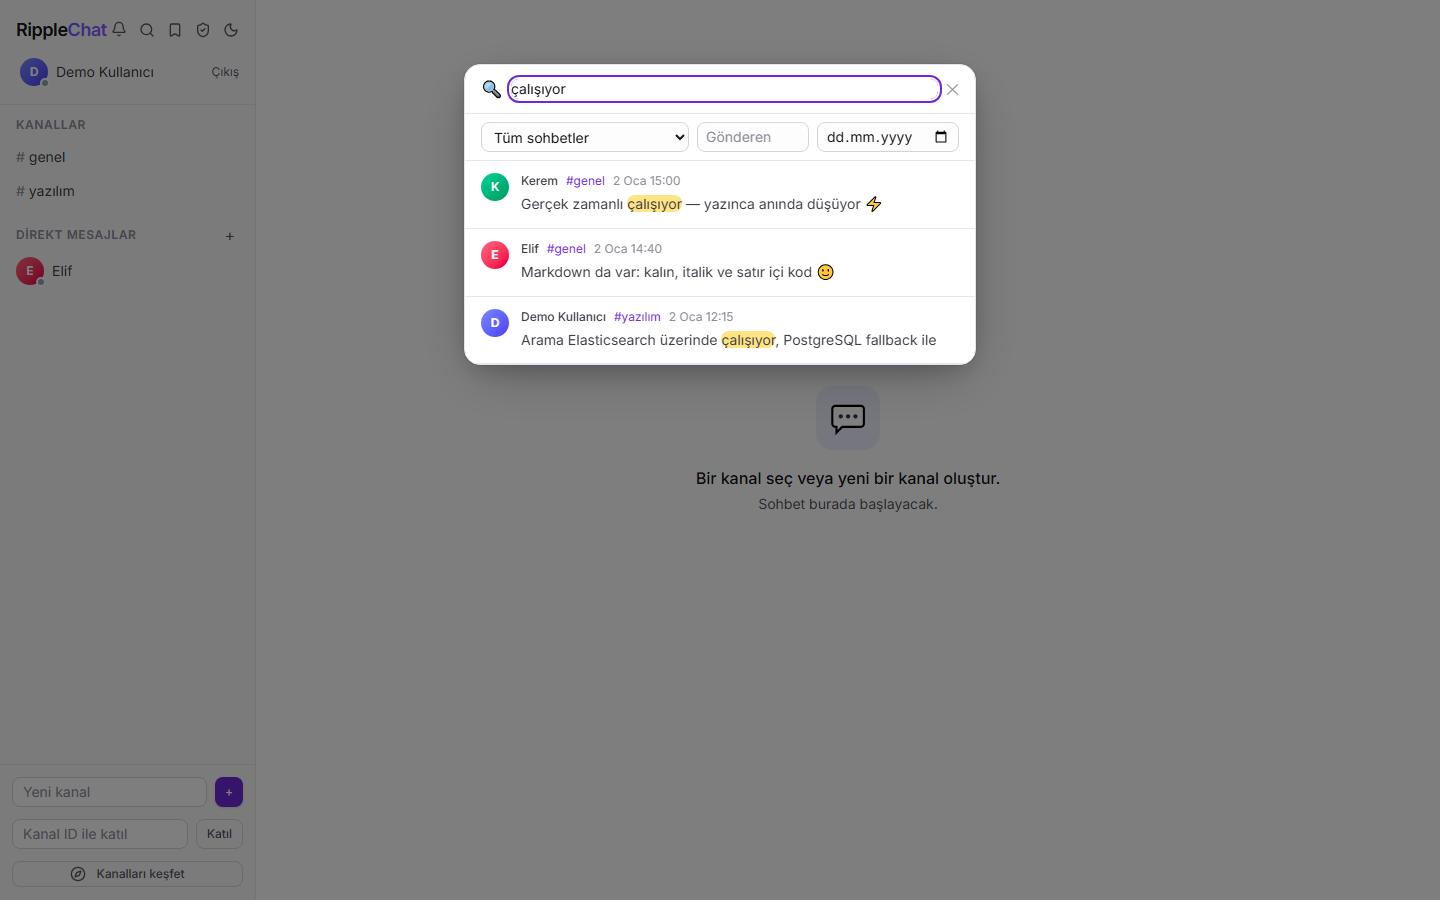
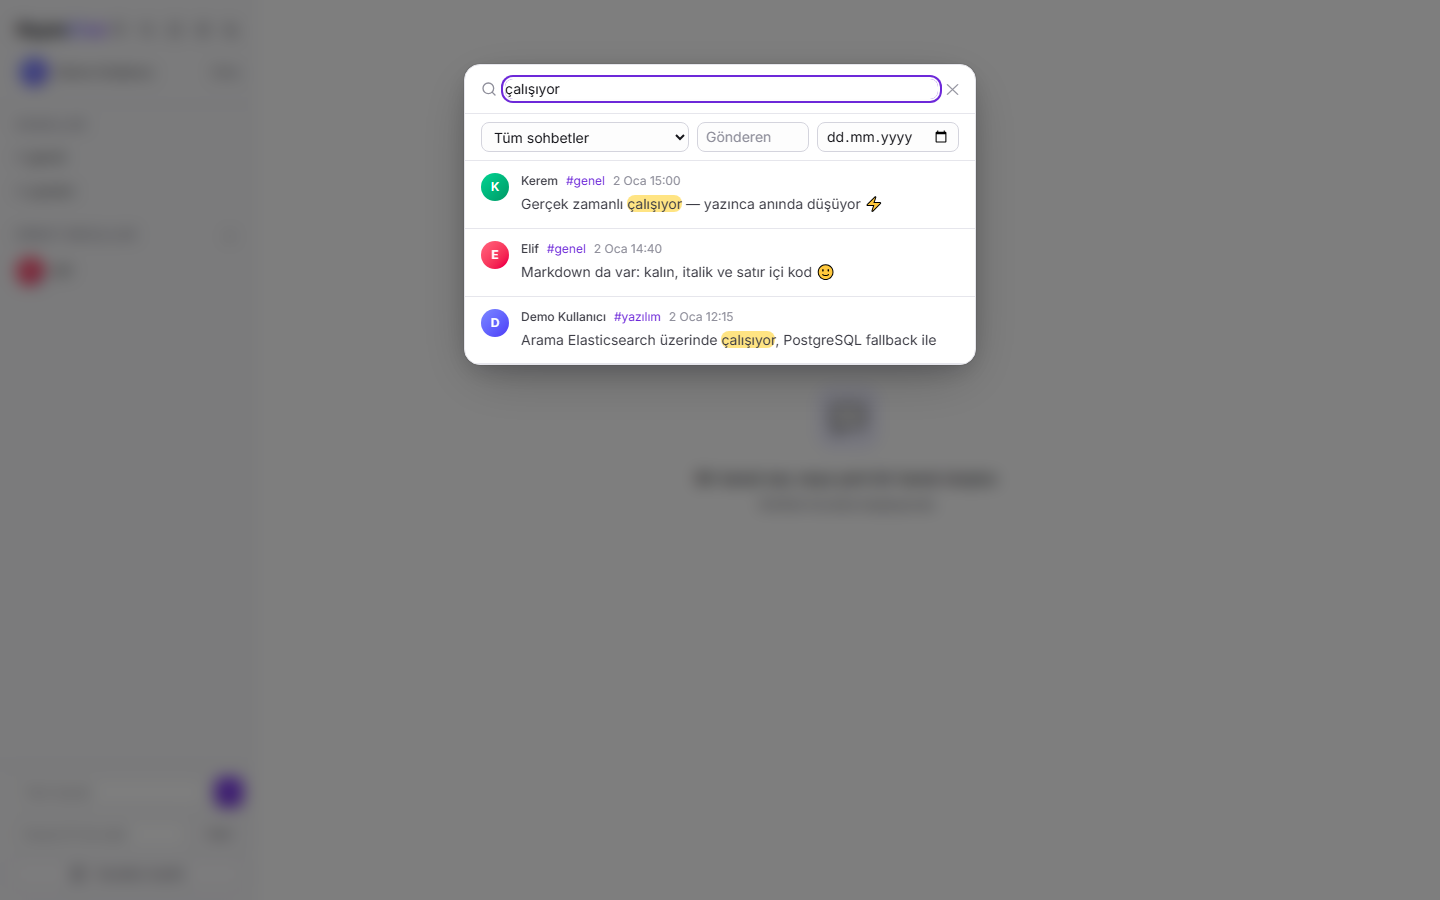
feat(frontend): component kit polish and motion — gradient buttons, glass overlays, modal entrances
Primary buttons carry a subtle brand gradient with a glow on hover and
a press scale; secondary buttons pick up a soft translucent fill;
fields round to xl. Every modal overlay now blurs the page behind it,
and a single [role=dialog] rule gives all ~12 dialogs the same pop-in
entrance (disabled under prefers-reduced-motion). The one magnifier
emoji the icon pass missed becomes a line icon. All screenshots, the
landing product frame and the social card are regenerated in dependency
order, so the landing's embedded product shot is current again.

diff --git a/frontend/src/components/ui/Button.tsx b/frontend/src/components/ui/Button.tsx
@@ -4,10 +4,12 @@ import { focusRing } from './focusRing'
 type Variant = 'primary' | 'secondary' | 'ghost' | 'danger'
 type Size = 'sm' | 'md'
 
-// Variants map onto the Tur 2 design tokens (brand / surface / control / danger).
+// Variants map onto the design tokens; primary carries the brand gradient.
 const variantClass: Record<Variant, string> = {
-  primary: 'bg-brand text-white shadow-sm hover:bg-brand-hover hover:shadow',
-  secondary: 'border border-control text-fg-muted hover:border-control-hover hover:text-fg',
+  primary:
+    'bg-gradient-to-b from-brand-hover to-brand text-white shadow-sm hover:shadow-glow hover:brightness-110',
+  secondary:
+    'border border-control bg-surface-overlay/50 text-fg-muted hover:border-control-hover hover:bg-surface-muted/60 hover:text-fg',
   ghost: 'text-fg-muted hover:bg-surface-muted hover:text-fg',
   danger: 'border border-red-500/50 text-danger hover:bg-red-500/10',
 }
@@ -34,7 +36,7 @@ export default function Button({
   return (
     <button
       type={type}
-      className={`inline-flex items-center justify-center gap-1.5 rounded-lg font-medium transition active:translate-y-px disabled:pointer-events-none disabled:opacity-60 ${focusRing} ${variantClass[variant]} ${sizeClass[size]} ${className}`}
+      className={`inline-flex items-center justify-center gap-1.5 rounded-lg font-medium transition duration-150 active:translate-y-px active:scale-[0.98] disabled:pointer-events-none disabled:opacity-60 ${focusRing} ${variantClass[variant]} ${sizeClass[size]} ${className}`}
       {...props}
     />
   )

diff --git a/frontend/src/components/SearchModal.tsx b/frontend/src/components/SearchModal.tsx
@@ -3,6 +3,7 @@ import { client } from '../api/client'
 import { useAppSelector } from '../app/hooks'
 import type { SearchResult } from '../api/types'
 import { dateLocale, useT } from '../i18n'
+import { Search } from 'lucide-react'
 
 const PAGE_SIZE = 20
 
@@ -120,7 +121,7 @@ export default function SearchModal({ onPick, onClose }: SearchModalProps) {
     d.group ? (d.name ?? t('sidebar.group')) : (d.otherUser?.displayName ?? d.otherUser?.username ?? 'DM')
 
   return (
-    <div className="fixed inset-0 z-40 flex items-start justify-center bg-black/50 p-4 pt-16" onClick={onClose}>
+    <div className="fixed inset-0 z-40 flex items-start justify-center bg-black/50 backdrop-blur-sm p-4 pt-16" onClick={onClose}>
       <div
         ref={panelRef}
         role="dialog"
@@ -131,7 +132,7 @@ export default function SearchModal({ onPick, onClose }: SearchModalProps) {
         onClick={(e) => e.stopPropagation()}
       >
         <div className="flex items-center gap-2 border-b border-border px-4 py-3">
-          <span className="text-fg-faint" aria-hidden="true">🔍</span>
+          <span className="text-fg-faint" aria-hidden="true"><Search className="h-4 w-4" /></span>
           <input
             autoFocus
             value={query}

diff --git a/frontend/src/components/ui/Field.tsx b/frontend/src/components/ui/Field.tsx
@@ -8,7 +8,7 @@ type Size = 'sm' | 'md'
 // click too. `inputSize` avoids clashing with the native HTML `size` attribute.
 // forwardRef so callers can focus()/measure the element (e.g. the composer).
 const fieldBase =
-  'w-full rounded-lg border border-control bg-surface text-sm text-fg transition placeholder:text-fg-faint outline-none focus:border-accent focus:ring-2 focus:ring-accent/30'
+  'w-full rounded-xl border border-control bg-surface text-sm text-fg transition placeholder:text-fg-faint outline-none focus:border-accent focus:ring-2 focus:ring-accent/30'
 
 const fieldSize: Record<Size, string> = {
   sm: 'px-2.5 py-1',

diff --git a/frontend/src/components/Sidebar.tsx b/frontend/src/components/Sidebar.tsx
@@ -129,7 +129,7 @@ export default function Sidebar({ open, onClose }: SidebarProps) {
 
   return (
     <>
-      {open && <div className="fixed inset-0 z-20 bg-black/50 md:hidden" onClick={onClose} />}
+      {open && <div className="fixed inset-0 z-20 bg-black/50 backdrop-blur-sm md:hidden" onClick={onClose} />}
       <aside
         className={`fixed inset-y-0 left-0 z-30 flex w-64 shrink-0 transform flex-col border-r border-border bg-surface-raised transition-transform duration-200 md:static md:z-auto md:translate-x-0 ${
           open ? 'translate-x-0' : '-translate-x-full'

diff --git a/frontend/src/components/CallModal.tsx b/frontend/src/components/CallModal.tsx
@@ -75,7 +75,7 @@ export function CallModal({ channelId, peerId, isIncoming }: CallModalProps) {
   // Render incoming call ring
   if (isIncoming && incomingCall) {
     return (
-      <div className="fixed inset-0 z-50 flex items-center justify-center bg-black/50 p-4">
+      <div className="fixed inset-0 z-50 flex items-center justify-center bg-black/50 backdrop-blur-sm p-4">
         <div className="w-full max-w-sm rounded-xl bg-surface p-6 shadow-xl text-fg">
           <h2 className="text-xl font-bold mb-2">Gelen Arama</h2>
           <p className="text-fg-secondary">

diff --git a/frontend/src/index.css b/frontend/src/index.css
@@ -186,6 +186,23 @@ time, [data-tabular] {
   user-select: none;
 }
 
+/* Every dialog panel pops in with the same entrance — one rule instead of a
+   class on each of the ~12 modals. The reduced-motion guard above disables it. */
+@keyframes modal-in {
+  from {
+    opacity: 0;
+    transform: translateY(6px) scale(0.98);
+  }
+  to {
+    opacity: 1;
+    transform: translateY(0) scale(1);
+  }
+}
+
+[role='dialog'] {
+  animation: modal-in 0.16s ease-out;
+}
+
 /* Shimmer loader animation for skeleton states */
 @keyframes shimmer-sweep {
   0% {

diff --git a/frontend/src/components/NewDmModal.tsx b/frontend/src/components/NewDmModal.tsx
@@ -67,7 +67,7 @@ export default function NewDmModal({ onStart, onClose }: NewDmModalProps) {
         : t('dm.startWith', { name: selected[0].displayName ?? selected[0].username })
 
   return (
-    <div className="fixed inset-0 z-40 flex items-start justify-center bg-black/50 p-4 pt-16" onClick={onClose}>
+    <div className="fixed inset-0 z-40 flex items-start justify-center bg-black/50 backdrop-blur-sm p-4 pt-16" onClick={onClose}>
       <div
         ref={panelRef}
         role="dialog"

diff --git a/frontend/src/components/ForwardModal.tsx b/frontend/src/components/ForwardModal.tsx
@@ -17,7 +17,7 @@ export default function ForwardModal({ onPick, onClose }: ForwardModalProps) {
   const panelRef = useDialog<HTMLDivElement>(onClose)
 
   return (
-    <div className="fixed inset-0 z-40 flex items-start justify-center bg-black/50 p-4 pt-16" onClick={onClose}>
+    <div className="fixed inset-0 z-40 flex items-start justify-center bg-black/50 backdrop-blur-sm p-4 pt-16" onClick={onClose}>
       <div
         ref={panelRef}
         role="dialog"

diff --git a/frontend/src/components/SettingsModal.tsx b/frontend/src/components/SettingsModal.tsx
@@ -244,7 +244,7 @@ export default function SettingsModal({ onClose }: SettingsModalProps) {
   const previewName = displayName.trim() || user.username
 
   return (
-    <div className="fixed inset-0 z-40 flex items-start justify-center bg-black/50 p-4 pt-16" onClick={onClose}>
+    <div className="fixed inset-0 z-40 flex items-start justify-center bg-black/50 backdrop-blur-sm p-4 pt-16" onClick={onClose}>
       <div
         ref={panelRef}
         role="dialog"

diff --git a/frontend/src/components/MediaGalleryModal.tsx b/frontend/src/components/MediaGalleryModal.tsx
@@ -33,7 +33,7 @@ export default function MediaGalleryModal({ channelId, onClose }: MediaGalleryMo
   }, [channelId])
 
   return (
-    <div className="fixed inset-0 z-40 flex items-start justify-center bg-black/50 p-4 pt-16" onClick={onClose}>
+    <div className="fixed inset-0 z-40 flex items-start justify-center bg-black/50 backdrop-blur-sm p-4 pt-16" onClick={onClose}>
       <div
         ref={panelRef}
         role="dialog"

diff --git a/frontend/src/components/MessageInfoModals.tsx b/frontend/src/components/MessageInfoModals.tsx
@@ -5,7 +5,7 @@ import { useT } from '../i18n'
 function ModalShell({ title, onClose, children }: { title: string; onClose: () => void; children: React.ReactNode }) {
   return (
     <div
-      className="fixed inset-0 z-40 flex items-start justify-center bg-black/50 p-4 pt-16"
+      className="fixed inset-0 z-40 flex items-start justify-center bg-black/50 backdrop-blur-sm p-4 pt-16"
       onClick={onClose}
     >
       <div

diff --git a/frontend/src/components/ScheduledMessagesModal.tsx b/frontend/src/components/ScheduledMessagesModal.tsx
@@ -77,7 +77,7 @@ export default function ScheduledMessagesModal({ channelId, initialDraft, onClos
   }
 
   return (
-    <div className="fixed inset-0 z-40 flex items-start justify-center bg-black/50 p-4 pt-16" onClick={onClose}>
+    <div className="fixed inset-0 z-40 flex items-start justify-center bg-black/50 backdrop-blur-sm p-4 pt-16" onClick={onClose}>
       <div
         ref={panelRef}
         role="dialog"
